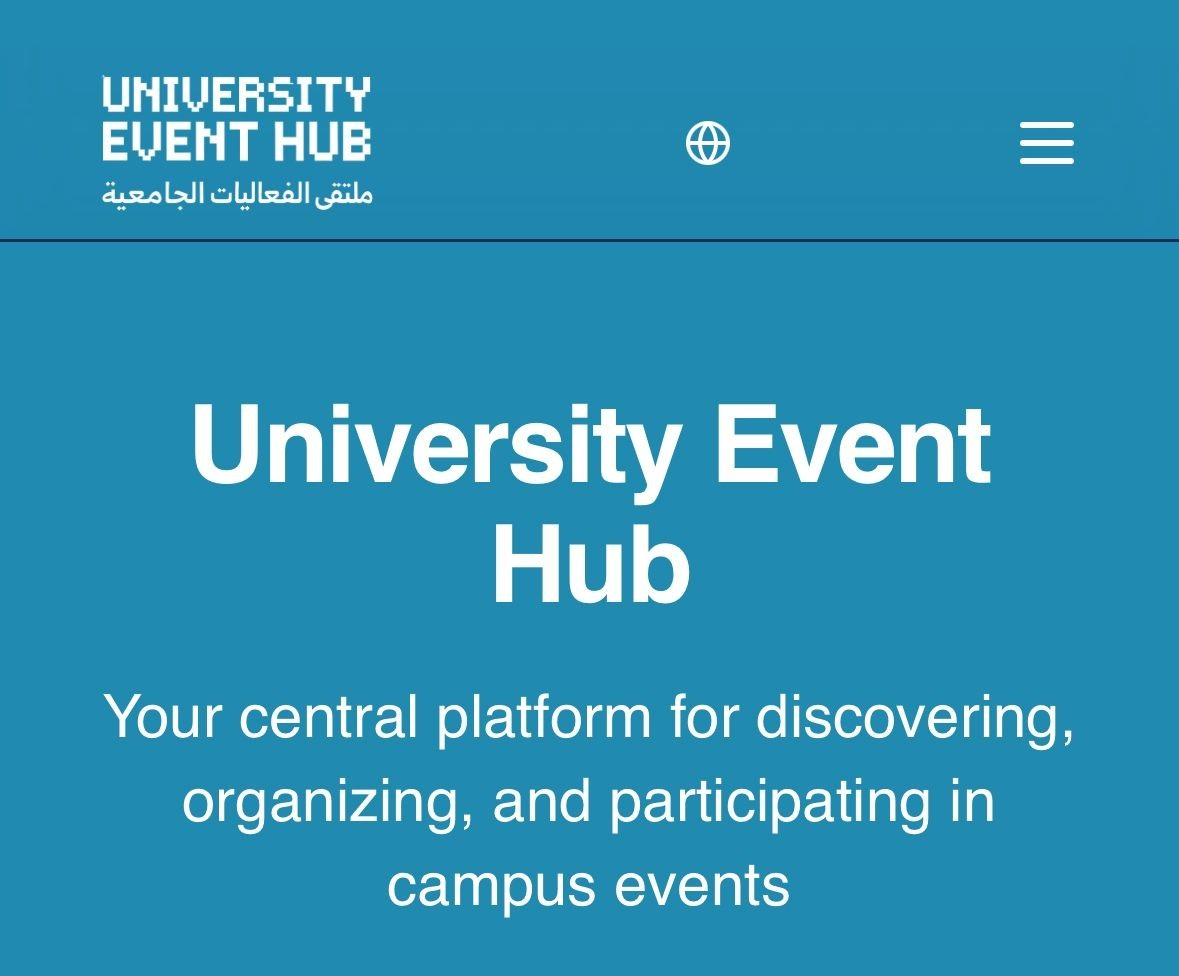
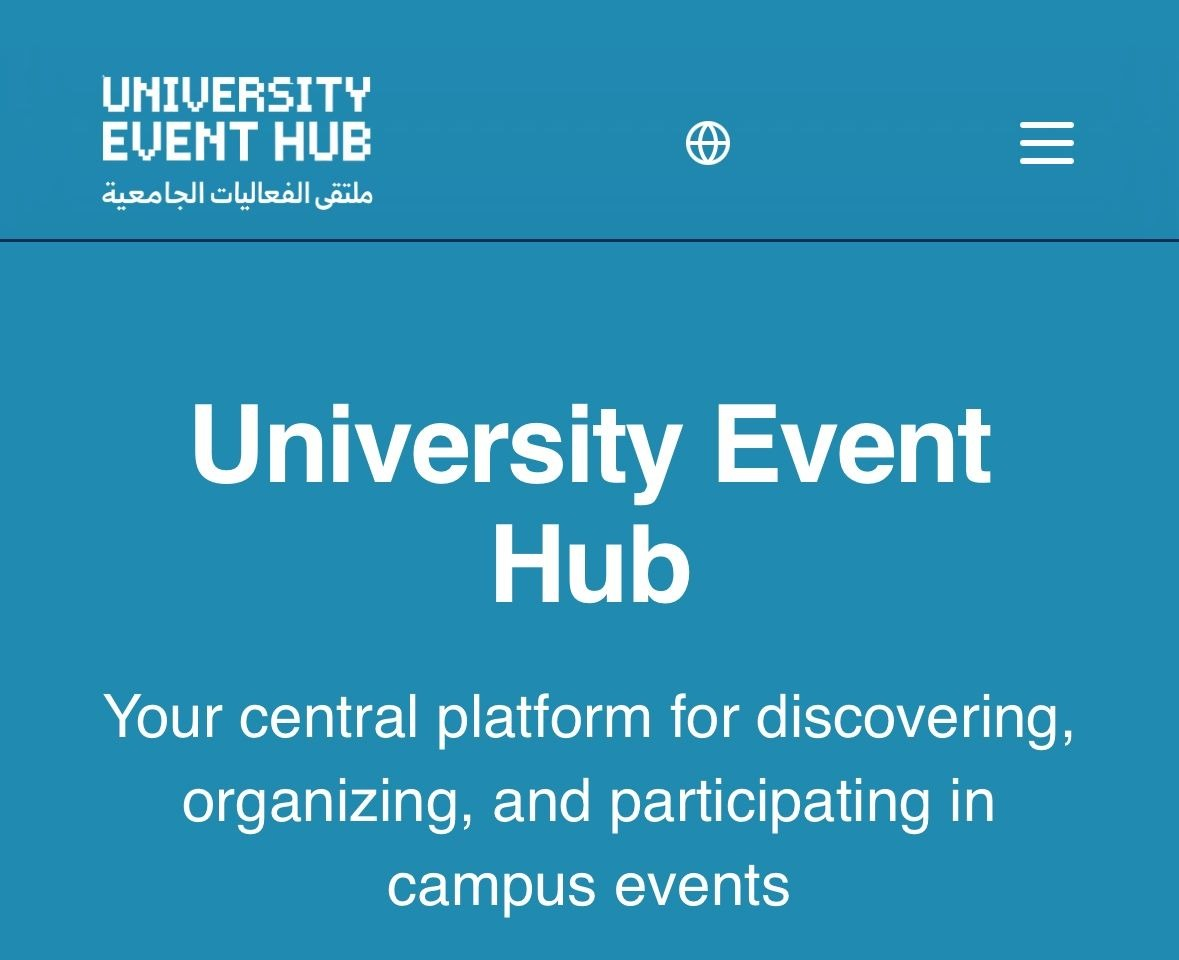
V5

diff --git a/src/components/Projects.tsx b/src/components/Projects.tsx
@@ -113,7 +113,7 @@ function ProjectCard({ project, lang, t, onOpen }: { project: Project; lang: 'en
           <img
             src={asset(project.image)}
             alt={t(project.title)}
-            className="w-full h-full object-cover group-hover:scale-105 transition-transform duration-500"
+            className="w-full h-full object-cover object-top group-hover:scale-105 transition-transform duration-500"
           />
         ) : (
           <ImageOff size={26} className="text-ink-900/20 dark:text-paper-100/20" />
@@ -172,7 +172,7 @@ function ProjectModal({ project, lang, t, onClose }: { project: Project; lang: '
       >
         <div className="relative aspect-[16/9] bg-ink-900/5 dark:bg-paper-100/5 flex items-center justify-center">
           {project.image ? (
-            <img src={asset(project.image)} alt={t(project.title)} className="w-full h-full object-cover" />
+            <img src={asset(project.image)} alt={t(project.title)} className="w-full h-full object-cover object-top" />
           ) : (
             <ImageOff size={32} className="text-ink-900/20 dark:text-paper-100/20" />
           )}